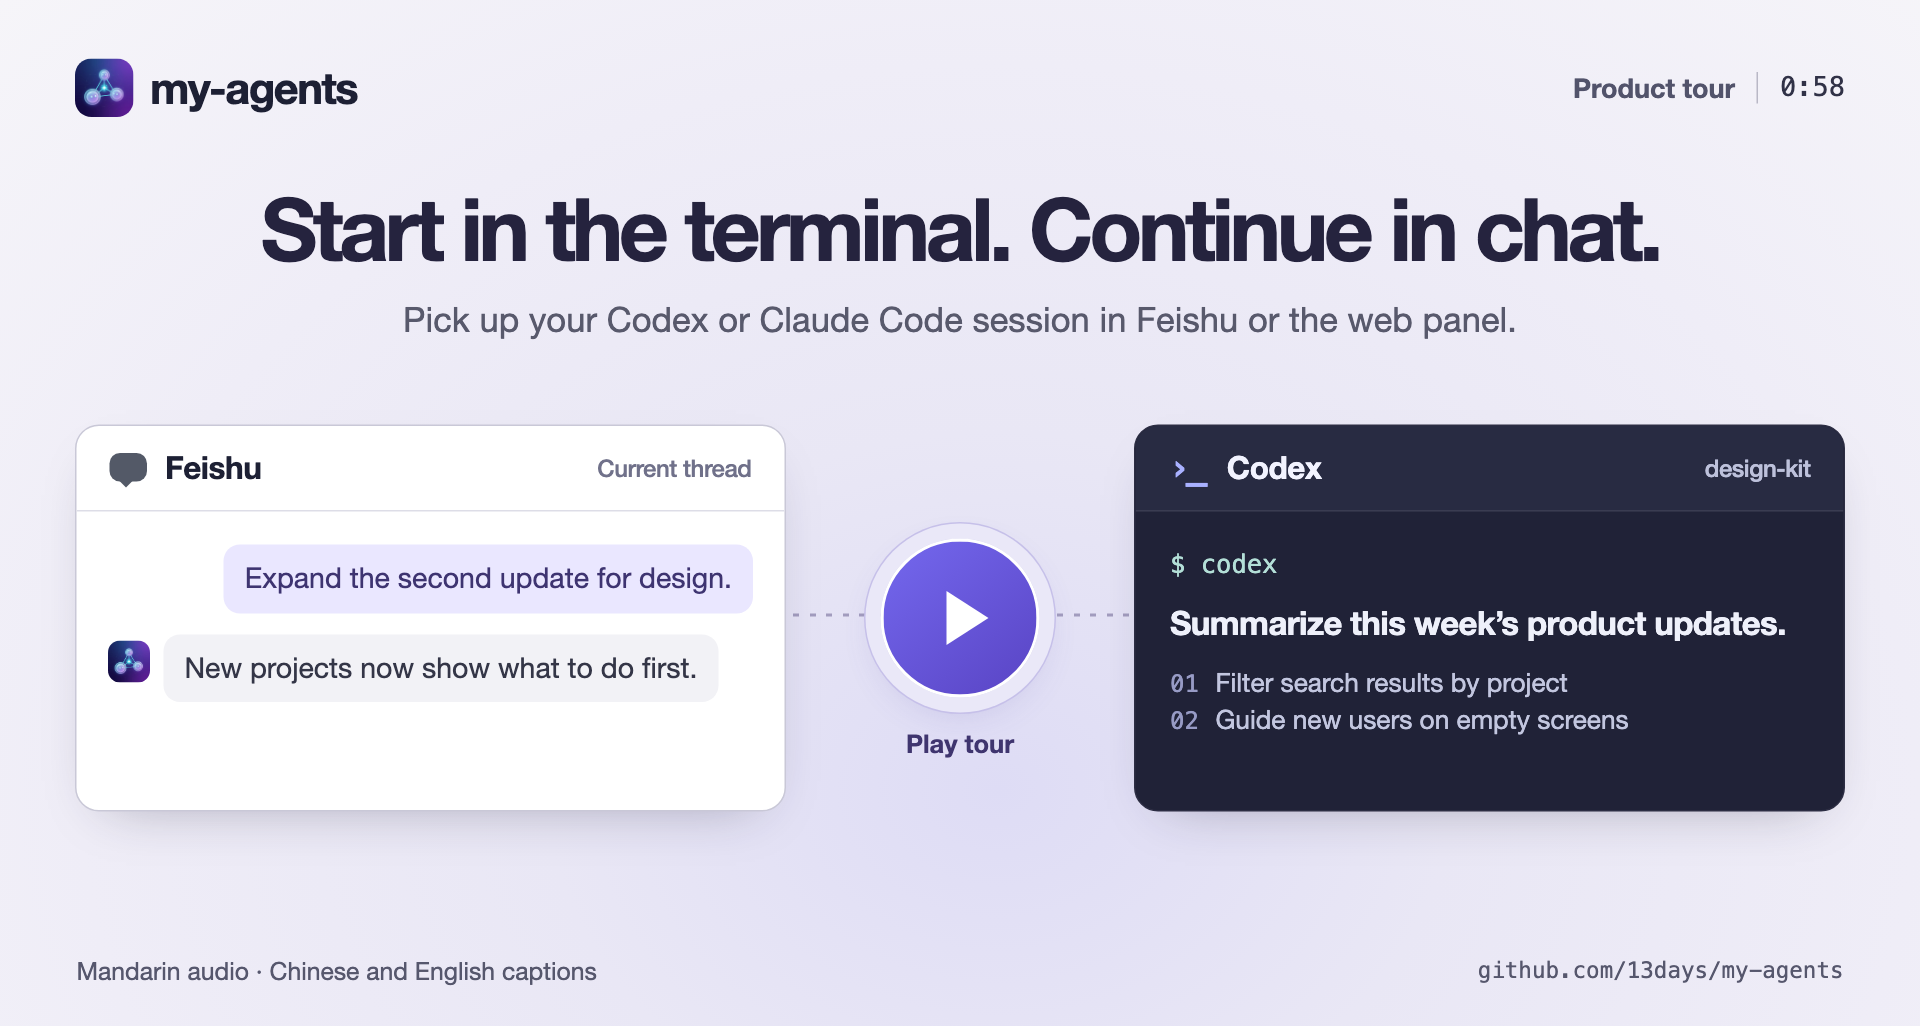
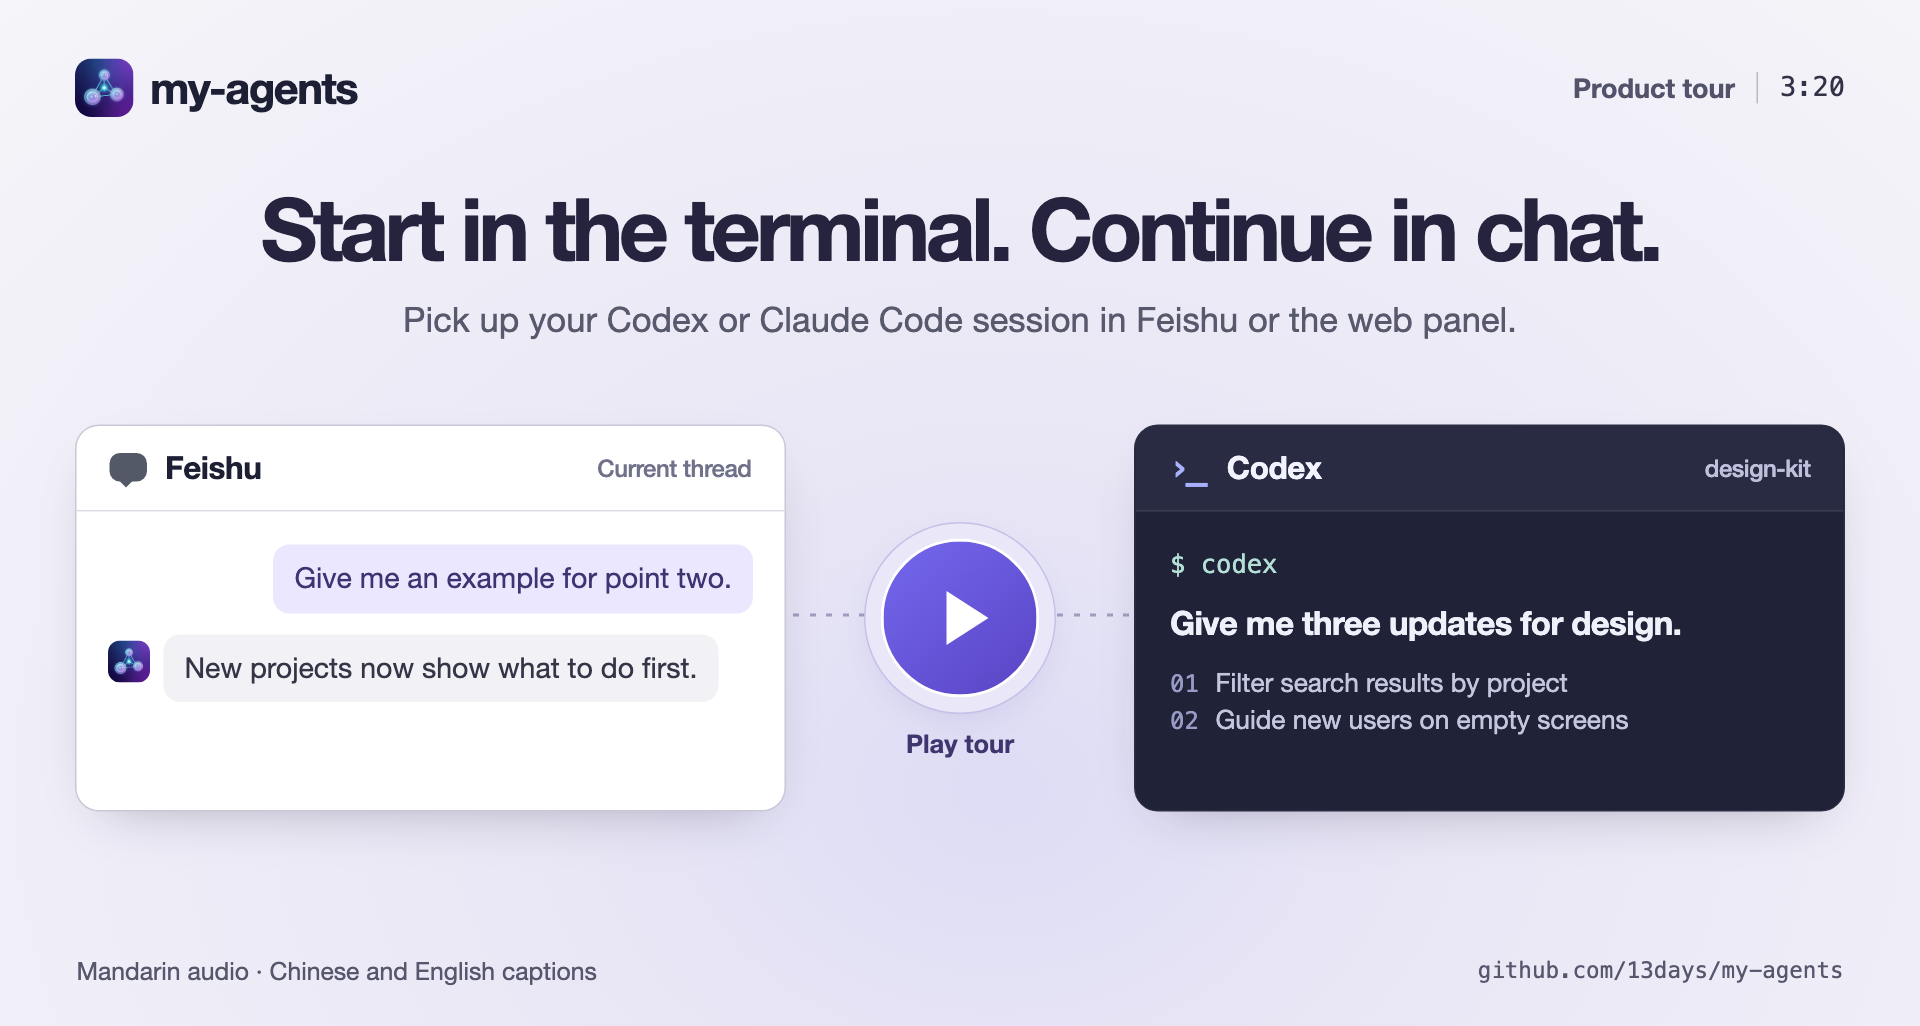
Point both README video covers to the complete product tour

Changed region(s): [[0.5938, 0.5926, 0.9375, 0.6238], [0.125, 0.5302, 0.375, 0.5926], [0.9375, 0.0624, 0.9688, 0.0936]]

diff --git a/README.en.md b/README.en.md
@@ -2,9 +2,9 @@
 
 [Quick start](#start-your-first-panel) · [User guide (Chinese)](docs/user-guide.md) · [中文](README.md)
 
-[![Play the 58-second product tour showing a terminal conversation continued in Feishu](https://raw.githubusercontent.com/13days/my-agents/main/docs/product-tour-en.png)](https://cdn.jsdelivr.net/gh/13days/my-agents@bdadbb6c08c8ef17e2872f091494e7f7a53bc1bf/docs/my-agents-intro.mp4)
+[![Play the 3 min 20 sec tour of session handoff, multi-machine tasks, model proxies and the assistant](https://raw.githubusercontent.com/13days/my-agents/main/docs/product-tour-en.png)](https://cdn.jsdelivr.net/gh/13days/my-agents@2a8d7841becf17cad868340333861091f4826f51/docs/my-agents-intro.mp4)
 
-Start a conversation in Codex or Claude Code, pick it up in Feishu on your phone, and continue in your browser or the original terminal. You can use Claude Code without access to a Claude model. Connect your own compatible gateway, or use GPT through the Codex subscription proxy with a ChatGPT subscription that includes Codex. [Download the tour (MP4)](https://raw.githubusercontent.com/13days/my-agents/main/docs/my-agents-intro.mp4)
+Start a conversation in Codex or Claude Code, pick it up in Feishu on your phone, and continue in your browser or the original terminal. You can use Claude Code without access to a Claude model. Connect your own compatible gateway, or use GPT through the Codex subscription proxy with a ChatGPT subscription that includes Codex. [Download the tour (MP4)](https://raw.githubusercontent.com/13days/my-agents/2a8d7841becf17cad868340333861091f4826f51/docs/my-agents-intro.mp4) · [Chinese and English captions (SRT)](docs/my-agents-intro.srt)
 
 ## Continue the same conversation in the terminal, chat, or browser
 

diff --git a/README.md b/README.md
@@ -2,9 +2,9 @@
 
 [快速接入](#启动第一台) · [使用手册](docs/user-guide.md) · [English](README.en.md)
 
-[![播放 58 秒产品介绍：在飞书追问终端里那条产品更新](https://raw.githubusercontent.com/13days/my-agents/main/docs/product-tour-zh.png)](https://cdn.jsdelivr.net/gh/13days/my-agents@bdadbb6c08c8ef17e2872f091494e7f7a53bc1bf/docs/my-agents-intro.mp4)
+[![播放 3 分 20 秒产品介绍，从终端与飞书接续到多机执行、模型代理和助理](https://raw.githubusercontent.com/13days/my-agents/main/docs/product-tour-zh.png)](https://cdn.jsdelivr.net/gh/13days/my-agents@2a8d7841becf17cad868340333861091f4826f51/docs/my-agents-intro.mp4)
 
-在终端用 Codex 或 Claude Code 开始的对话，出门后可以在飞书接手，回到电脑也能在网页或原终端继续。没有 Claude 模型也能用 Claude Code 改文件、跑命令。你可以接入自己的兼容网关，也可以通过 Codex 订阅代理，让带 Codex 权限的 ChatGPT 订阅提供 GPT 模型。 [下载介绍视频（MP4）](https://raw.githubusercontent.com/13days/my-agents/main/docs/my-agents-intro.mp4)
+在终端用 Codex 或 Claude Code 开始的对话，出门后可以在飞书接手，回到电脑也能在网页或原终端继续。没有 Claude 模型也能用 Claude Code 改文件、跑命令。你可以接入自己的兼容网关，也可以通过 Codex 订阅代理，让带 Codex 权限的 ChatGPT 订阅提供 GPT 模型。 [下载介绍视频（MP4）](https://raw.githubusercontent.com/13days/my-agents/2a8d7841becf17cad868340333861091f4826f51/docs/my-agents-intro.mp4) · [中英字幕（SRT）](docs/my-agents-intro.srt)
 
 ## 在终端、飞书和网页接着聊
 
